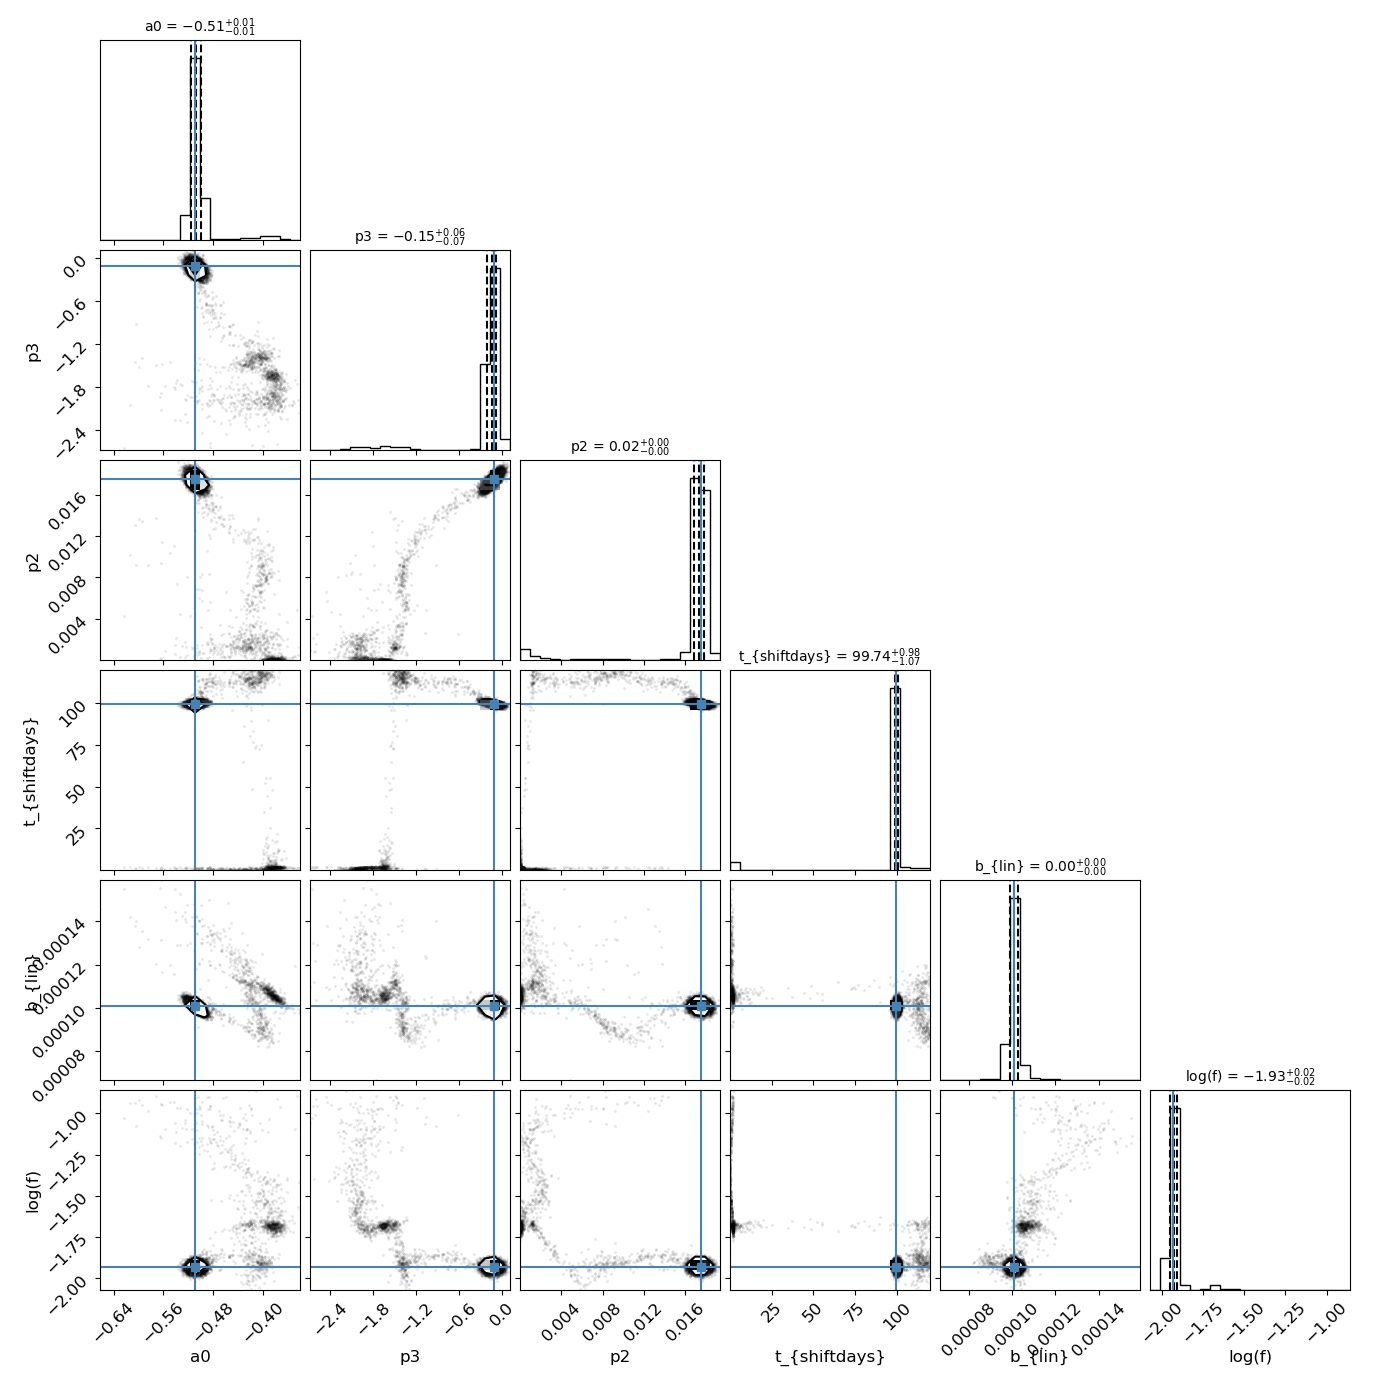
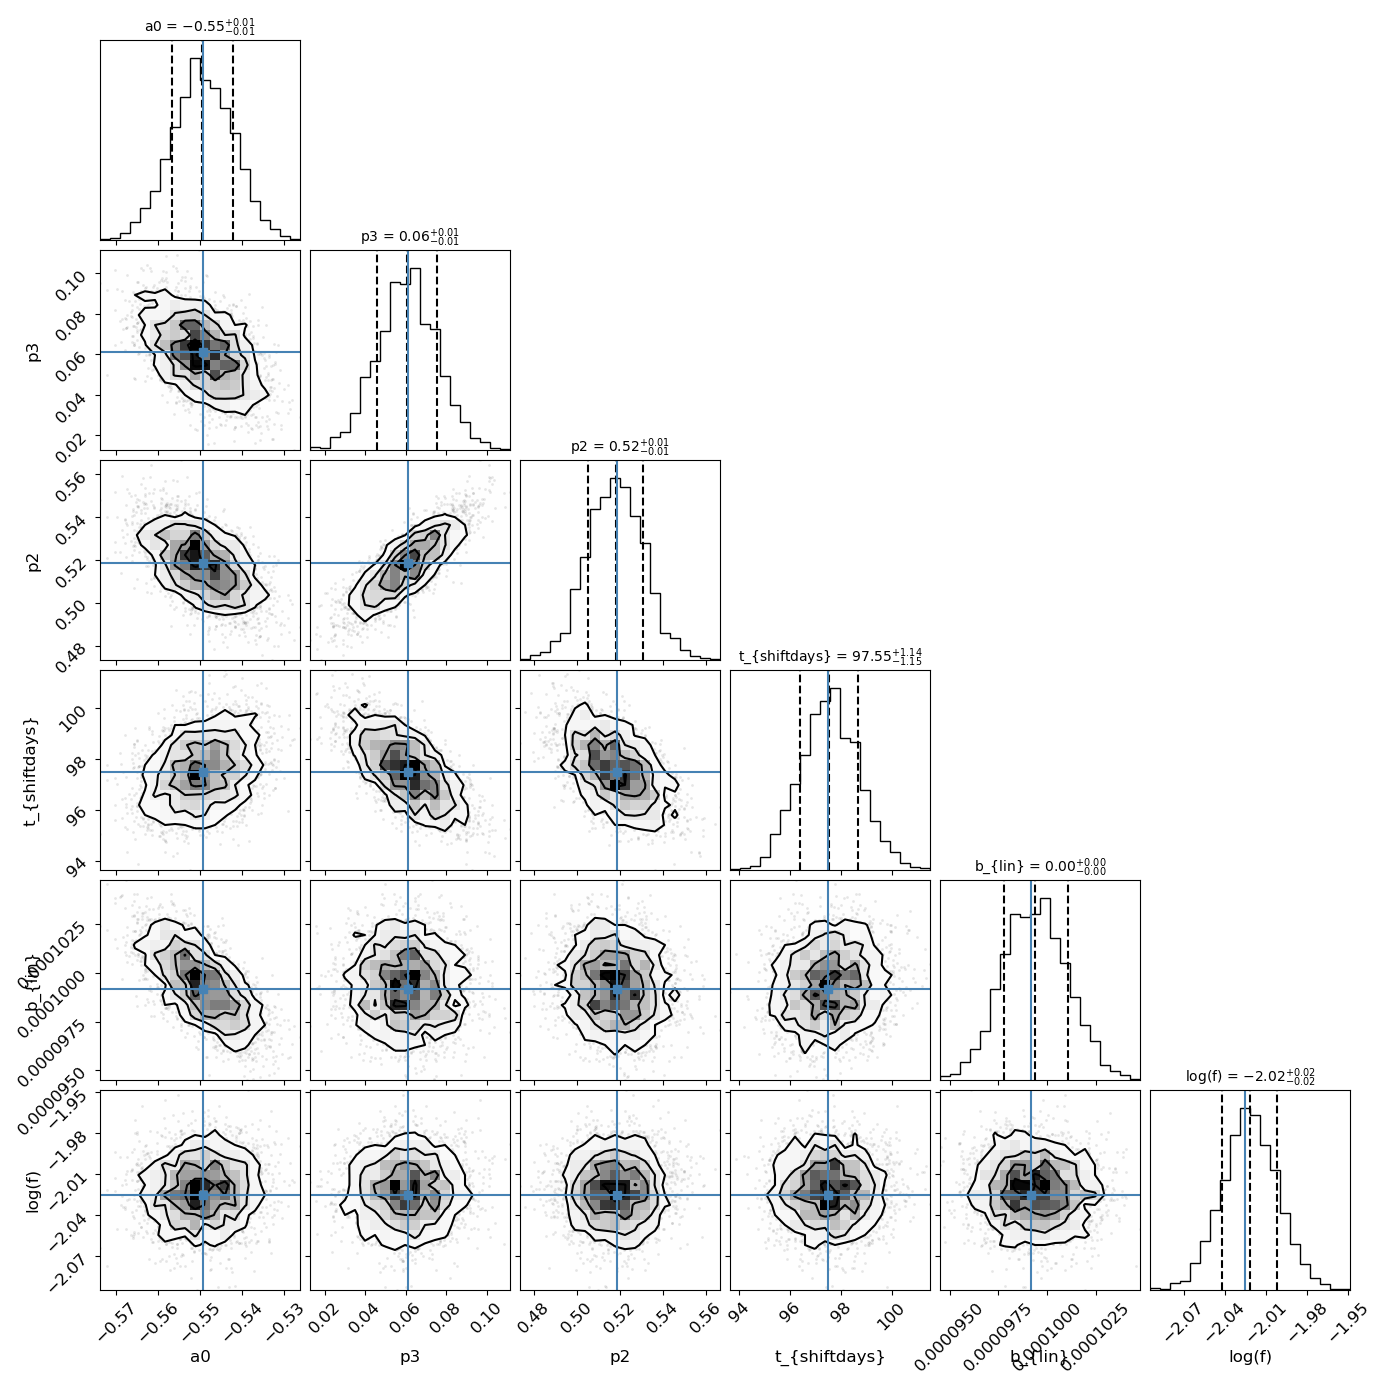
Add normalization

diff --git a/ModelFit/code/modelfit_MCMC_Utah.py b/ModelFit/code/modelfit_MCMC_Utah.py
@@ -95,12 +95,12 @@ if __name__ == '__main__':
     modelparam["modelcase"] = "soil_temp" # "temp" "base" or "wlin"
 
     # MCMC parameters
-    modelparam["nwalkers"] =  200 # number of chains
+    modelparam["nwalkers"] =  32 # 200 # number of chains
 
-    #output_imgdir = "../figure/MCMC_modelfit"
-    output_imgdir = "../figure/MCMC_soil_temp"
+    #output_imgdir = "../figure/MCMC_test"
+    output_imgdir = "../figure/MCMC_soil_temp_normlized"
     output_imgdir_debug = "../figure/MCMC_modelfit_dvvtrace"
-    output_datadir = "../processed_data/MCMC_sampler_{}".format(nsteps)
+    output_datadir = "../processed_data/MCMC_sampler_{}_Normalized".format(nsteps)
 
     # set random seed to fix the initial chains
     np.random.seed(seed=20121115)
@@ -151,8 +151,8 @@ if __name__ == '__main__':
     #modelparam["precip"] = df_tandp_synchronized.precip
     #modelparam["CAVG"]   = df_tandp_synchronized.CAVG
     
-    modelparam["CAVG"]   = np.array(fi['temp_prism'])
-    modelparam["soil"]   = np.array(fi['soil_nldas']) 
+    modelparam["CAVG"]   = np.array(fi['temp_prism'])/np.max(np.abs(fi['temp_prism']))
+    modelparam["soil"]   = np.array(fi['soil_nldas'])/np.max(np.abs(fi['soil_nldas']))
      
 
     #---Generate the initial model parameters with chains---#
@@ -189,10 +189,10 @@ if __name__ == '__main__':
         nax=int((ndim-3)/2)+1
         fig, ax = plt.subplots(3, 1, figsize=(12,9))
         ax[0].errorbar(uniform_tvec, dvv_data, yerr = err_data, capsize=3, ls="-", c = "r", ecolor='black')
-        ax[1].plot(uniform_tvec, modelparam["CAVG"],  ls="-", c = "orange")
+        ax[1].plot(uniform_tvec, np.array(fi['temp_prism']),  ls="-", c = "orange")
         ax[0].set_title(stationpair)
         ax[1].set_title("Temperature (C) from PRISM")
-        ax[2].plot(uniform_tvec,modelparam["soil"],  ls="-", c = "b")
+        ax[2].plot(uniform_tvec,np.array(fi['soil_nldas']),  ls="-", c = "b")
         ax[2].set_title("Soil Moisture EWT (m) from NLDAS")
         plt.tight_layout()
         plt.savefig(output_imgdir_debug+"/MCMCdvv_%s_%s_%s.png"%(stationpair, freqband, modelparam["modelcase"]), format="png", dpi=100)
@@ -262,11 +262,13 @@ if __name__ == '__main__':
         ax[1].plot(uniform_tvec, best_fit_model, c='b',linestyle='--',linewidth=0.8, label='Highest Likelihood Model')
 
         ax[2].plot(uniform_tvec, dvv_data, label='observed dvv',c='k')
-        ax[2].plot(uniform_tvec, med_model, c='orange',linewidth=2, label='Median Model')
         ax[2].plot(uniform_tvec, best_fit_model, c='b',linestyle='--', label='Highest Likelihood Model')
         ax[2].plot(uniform_tvec, dvv_data-best_fit_model, label='Residual',c='r')
-        ax[3].plot(uniform_tvec, modelparam["CAVG"],  ls="-", c = "orange",label="Temperature (C) from PRISM")
-        ax[4].plot(uniform_tvec,modelparam["soil"],  ls="-", c = "b" ,label="Re-mean Soil Moisture EWT (m) from NLDAS")
+        ax[3].plot(uniform_tvec, modelparam["CAVG"],  ls="-", c="orange",label="Normalized de-mean Temperature from PRISM")
+        ax[3].plot(uniform_tvec,modelparam["soil"],  ls="-", c = "b" ,label="Normalized de-mean Soil Moisture EWT from NLDAS")
+        ax[4].plot(uniform_tvec,modelparam["soil"],  ls="-", c = "b" ,label="Normalized de-mean Soil Moisture EWT from NLDAS")
+        ax[4].plot(uniform_tvec, dvv_data*-1, label='observed dvv',c='k')
+        ax[3].plot(uniform_tvec, dvv_data,label='observed dvv',c='k')
         ax[0].legend()
         ax[1].legend()
         ax[2].legend()
